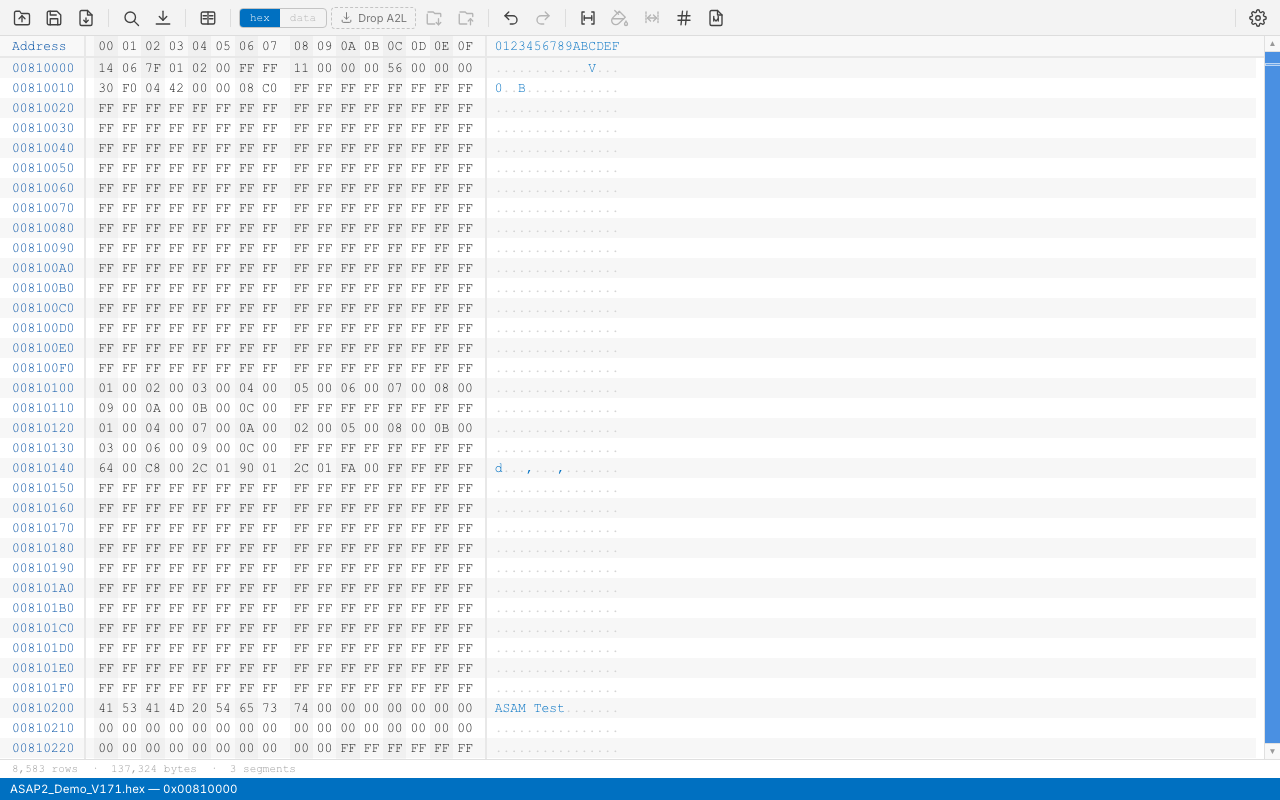
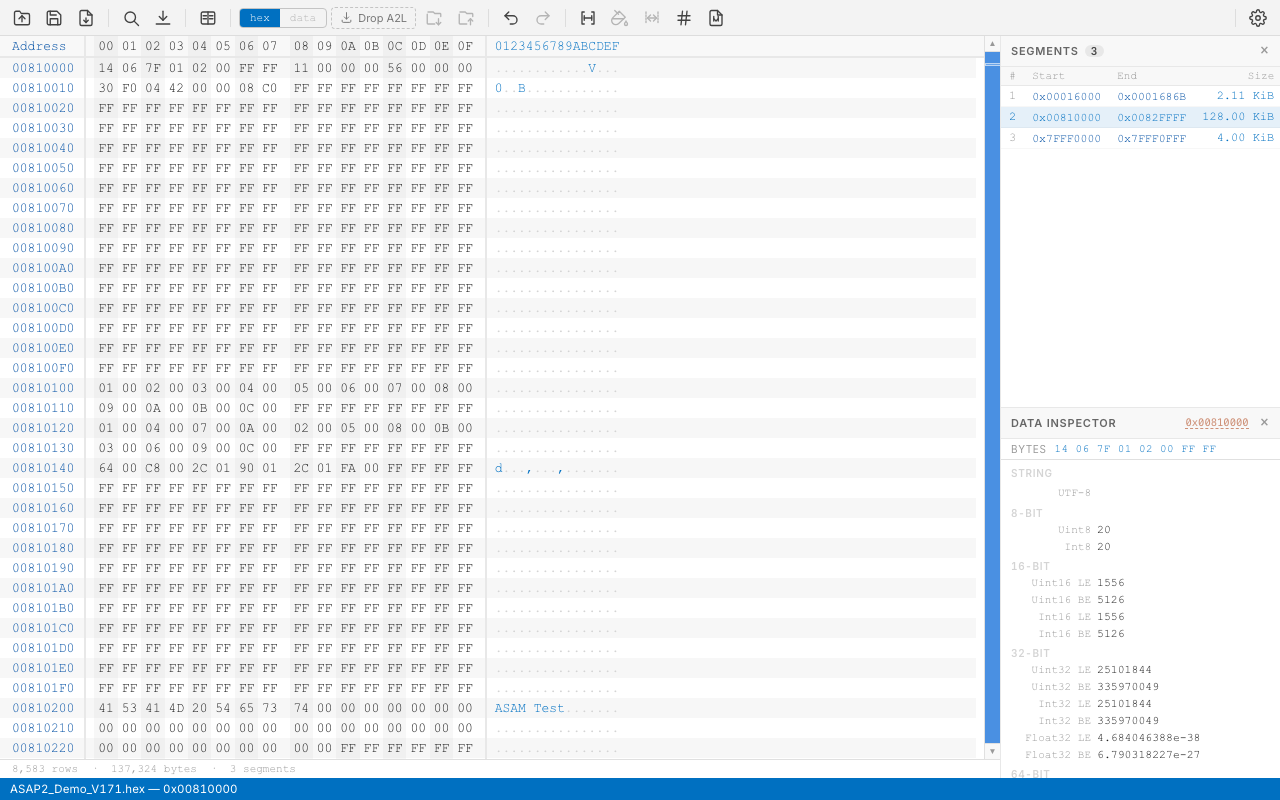
Show both side panes in the hex screenshot
The segment list and data inspector belong to the hex view and had no place in
the README at all. The shot now opens both, so the panes are visible with real
content: three segments with the current one marked, and the inspector pinned
at 0x00810000.

It also lines the two images up — the inspector reads Uint8 20 at that address,
which is the same value the data view shows for
ASAM.C.SCALAR.UBYTE.IDENTICAL.

diff --git a/docs/screenshots/harness.svelte b/docs/screenshots/harness.svelte
@@ -6,6 +6,8 @@
   // Not shipped — regenerated by docs/screenshots/capture.sh.
   import FileMenu from '$lib/components/FileMenu.svelte';
   import HexViewer from '$lib/components/HexViewer.svelte';
+  import SegmentList from '$lib/components/SegmentList.svelte';
+  import DataInspector from '$lib/components/DataInspector.svelte';
   import DataView from '$lib/components/DataView.svelte';
   import MapEditor from '$lib/components/MapEditor.svelte';
   import rows from './rows.json';
@@ -19,7 +21,9 @@
   const SCENES = {
     // Aimed at the calibration block: the rest of the image is FF padding,
     // which shows the viewer but says nothing about the file.
-    hex:  { mode: 'hex',  sel: null, goto: 0x810000,
+    // Both side panes on: they belong to the hex view, and the shot is the
+    // one place to show what they hold.
+    hex:  { mode: 'hex',  sel: null, goto: 0x810000, panes: true,
             status: 'ASAP2_Demo_V171.hex — 0x00810000' },
     data: { mode: 'data', sel: 'ASAM.C.CURVE.STD_AXIS',
             status: 'ASAM.C.CURVE.STD_AXIS → -3 … 71 hours' },
@@ -35,6 +39,7 @@
   }
 
   let selected = $state(scene.sel);
+  let topAddress = $state(scene.goto ?? 0);
   const detail = $derived(details[selected] ?? null);
 </script>
 
@@ -48,12 +53,26 @@
     <main class="viewer-area">
       {#if scene.mode === 'hex'}
         <HexViewer {records} editable={true}
-                   gotoTarget={scene.goto ? { addr: scene.goto, seq: 1 } : null} />
+                   gotoTarget={scene.goto ? { addr: scene.goto, seq: 1 } : null}
+                   onTopAddress={(a) => (topAddress = a)} />
       {:else}
         <DataView {rows} {stats} {detail} {selected} showType={true}
                   onSelect={(n) => (selected = n)} />
       {/if}
     </main>
+
+    <!-- Same structure as the app shell, so the panes sit where they really do. -->
+    {#if scene.panes}
+      <aside class="side-panel">
+        <div class="side-section">
+          <SegmentList {records} topAddress={topAddress} />
+        </div>
+        <div class="side-divider"></div>
+        <div class="side-section">
+          <DataInspector {records} address={scene.goto ?? 0} pinned={true} />
+        </div>
+      </aside>
+    {/if}
   </div>
   <footer class="statusbar"><span>{scene.status}</span></footer>
 </div>
@@ -68,6 +87,12 @@
   .app-shell { display: flex; flex-direction: column; height: 100vh; }
   .content-area { flex: 1; display: flex; overflow: hidden; min-height: 0; }
   .viewer-area { flex: 1; overflow: hidden; min-width: 0; }
+  .side-panel {
+    width: 280px; flex-shrink: 0; display: flex; flex-direction: column;
+    border-left: 1px solid var(--c-hover); overflow: hidden; background: var(--c-bg);
+  }
+  .side-section { flex: 1; min-height: 0; overflow: hidden; display: flex; flex-direction: column; }
+  .side-divider { height: 1px; flex-shrink: 0; background: var(--c-hover); }
   /* Lifted from the app shell so the harness frames the view identically. */
   .statusbar {
     display: flex; align-items: center; height: 22px; padding: 0 10px;

diff --git a/README.md b/README.md
@@ -10,11 +10,11 @@ Load an **ASAM MCD-2 MC (A2L)** description alongside the image and it also beco
 
 <table>
 <tr>
-<td width="50%"><a href="docs/screenshots/hex.png"><img src="docs/screenshots/hex.png" alt="The hex view at the calibration block, showing bytes, ASCII and segment boundaries"></a></td>
+<td width="50%"><a href="docs/screenshots/hex.png"><img src="docs/screenshots/hex.png" alt="The hex view at the calibration block, with the segment list and data inspector panes open"></a></td>
 <td width="50%"><a href="docs/screenshots/map.png"><img src="docs/screenshots/map.png" alt="The map editor: a shaded 4x5 grid with verbal row labels, and each row plotted as a curve"></a></td>
 </tr>
 <tr>
-<td align="center"><em>Hex view — bytes, ASCII and segment gaps</em></td>
+<td align="center"><em>Hex view — with the segment list and data inspector</em></td>
 <td align="center"><em>Map editor — shaded grid, verbal axis, curves per row</em></td>
 </tr>
 </table>

diff --git a/docs/screenshots/README.md b/docs/screenshots/README.md
@@ -36,7 +36,7 @@ numbers in them come from `ASAP2_Demo_V171.hex` read through
 
 | File | Shows |
 |------|-------|
-| `hex.png` | The hex view at the calibration block — the rest of the image is `FF` padding and says nothing |
+| `hex.png` | The hex view at the calibration block, with both side panes open — the rest of the image is `FF` padding and says nothing |
 | `data.png` | The data view: coverage banner, categories, parameter table, and a curve with its plot |
 | `map.png` | The map editor: shaded grid, verbal row labels, and the family-of-curves plot |
 
